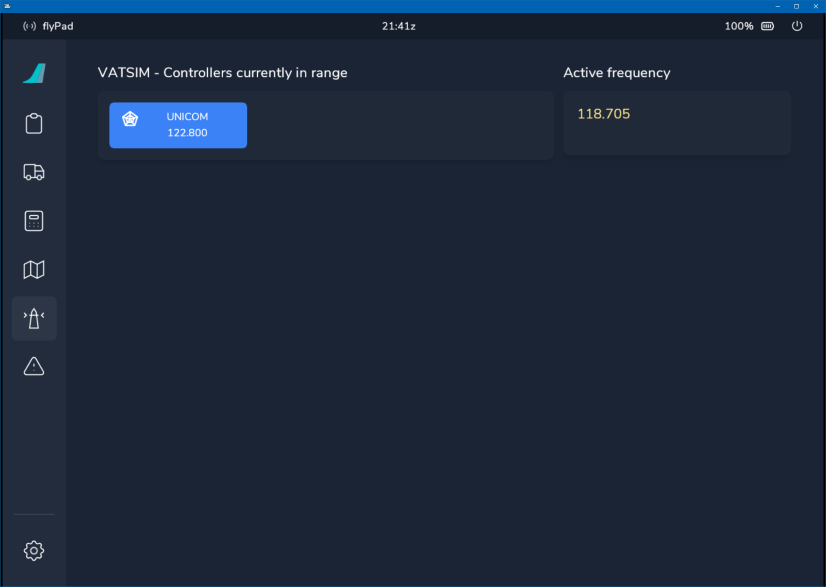
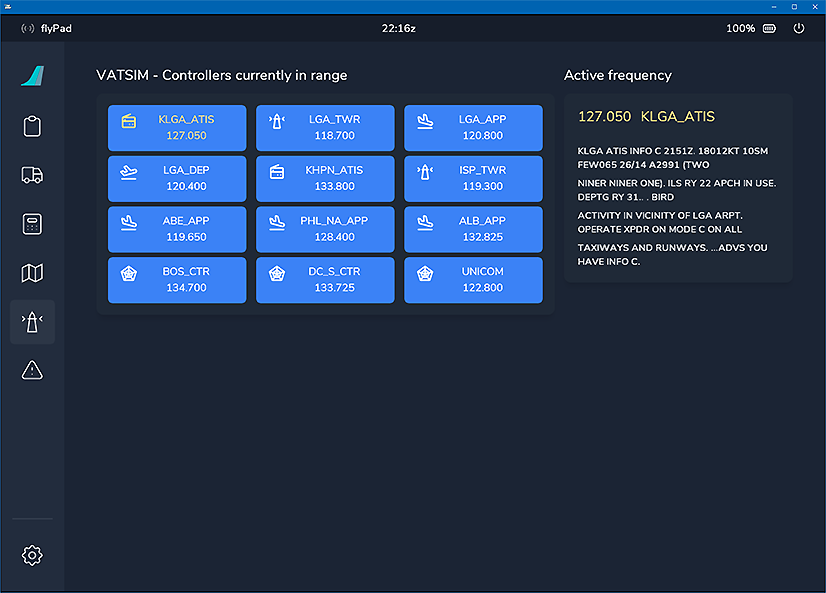
Added content to online-atc.md

diff --git a/docs/fbw-a32nx/feature-guides/flyPad/online-atc.md b/docs/fbw-a32nx/feature-guides/flyPad/online-atc.md
@@ -34,6 +34,21 @@
 }
 </style>
 
+## Description
+
+The FlyByWire flyPad helps pilots managing the communication frequencies when using Online ATC services like VATSIM or IVAO.
+
+It lists all currently available ATC stations which can then be activated in the RMP 1 by a single click.
+
+## Usage
+
+Go to the flyPad [ATSU/AOC settings page](settings.md#atsuaoc) and select your Online ATC service.
+
+!!! warning ""
+    Only VATSIM or IVAO are available at this time.
+
+Go back to the ATC page and see the list of the currently available ATC stations. Click on a station to set this frequency in the Captain's RMP.
+
 <div style="position: relative;">
     <img src="/fbw-a32nx/assets/flypad/flypad-online-atc-vatsim.png" style="width: 100%; height: auto;" loading="lazy">
     <a href="../dashboard/">   <div class="imagemap" style="position: absolute; left: 1.3%; top:  8.3%; width: 5.8%; height: 8.1%;"><span class="imagemapname">Dashboard</span></div></a>
@@ -46,3 +61,4 @@
     <a href="../settings/">    <div class="imagemap" style="position: absolute; left: 1.3%; top: 88.0%; width: 5.8%; height: 8.1%;"><span class="imagemapname">Settings</span></div></a>
 </div>
 
+![Online ATC Frequency via click](../../assets/flypad/online-atc-frequency.png "Online ATC Frequency via click"){loading=lazy}
